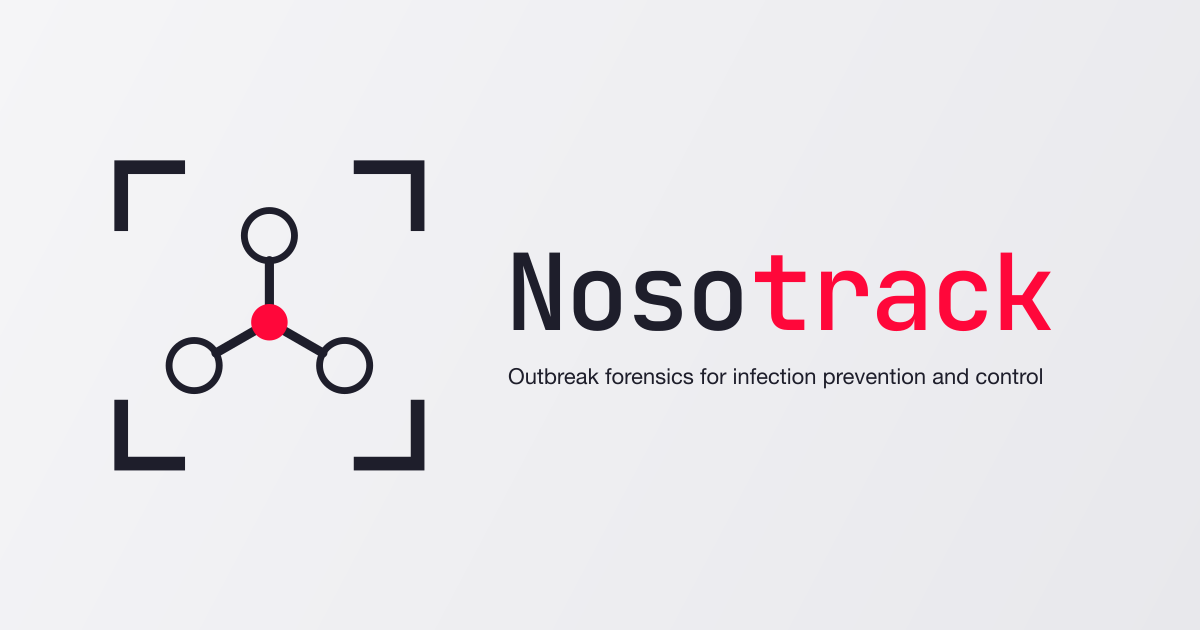
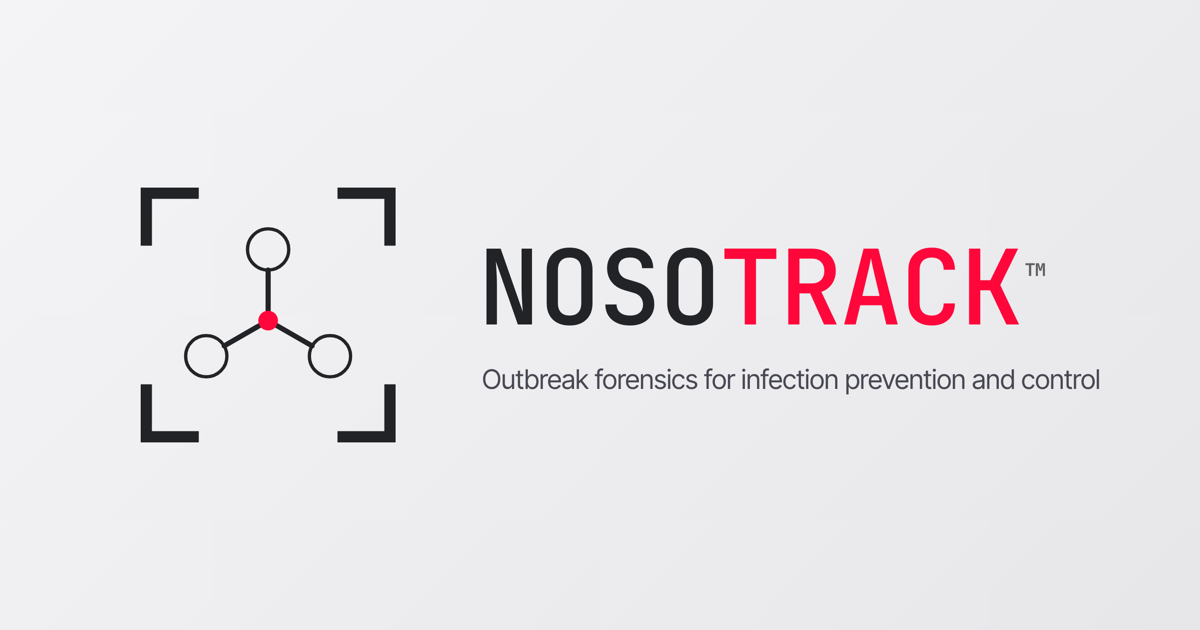
update image brand all caps

diff --git a/scripts/og-card/og-card.html b/scripts/og-card/og-card.html
@@ -1,0 +1,125 @@
+<!doctype html>
+<html lang="en">
+  <head>
+    <meta charset="utf-8" />
+    <style>
+      /* Local system fonts so the render is offline + deterministic. */
+      @font-face {
+        font-family: "JetBrains Mono";
+        src: local("JetBrains Mono"),
+          url("file:///Users/cy/Library/Fonts/JetBrainsMono-VariableFont_wght.ttf")
+            format("truetype");
+        font-weight: 300 800;
+        font-display: block;
+      }
+      @font-face {
+        font-family: "Inter Tight";
+        src: local("Inter Tight"),
+          url("file:///Users/cy/Library/Fonts/InterTight-VariableFont_wght.ttf")
+            format("truetype");
+        font-weight: 300 800;
+        font-display: block;
+      }
+
+      * {
+        margin: 0;
+        padding: 0;
+        box-sizing: border-box;
+      }
+
+      html,
+      body {
+        width: 1200px;
+        height: 630px;
+      }
+
+      body {
+        display: flex;
+        align-items: center;
+        gap: 60px;
+        padding-left: 118px;
+        background: linear-gradient(135deg, #f4f4f6 0%, #e7e7ea 100%);
+        -webkit-font-smoothing: antialiased;
+        text-rendering: geometricPrecision;
+      }
+
+      .icon {
+        flex: 0 0 auto;
+        width: 300px;
+        height: 300px;
+      }
+
+      .lockup {
+        display: flex;
+        flex-direction: column;
+      }
+
+      /* NOSO ink + TRACK alert-red — the canonical lockup. */
+      .wordmark {
+        font-family: "JetBrains Mono", ui-monospace, monospace;
+        font-weight: 500;
+        font-size: 104px;
+        letter-spacing: -0.02em;
+        line-height: 1;
+        color: #212326;
+        white-space: nowrap;
+      }
+      .wordmark .track {
+        color: #ff073a;
+      }
+      .wordmark .tm {
+        font-size: 0.34em;
+        vertical-align: super;
+        font-weight: 500;
+        letter-spacing: 0;
+        opacity: 0.7;
+        margin-left: 0.12em;
+      }
+
+      .tagline {
+        margin-top: 24px;
+        margin-left: 4px;
+        font-family: "Inter Tight", system-ui, sans-serif;
+        font-weight: 400;
+        font-size: 27px;
+        letter-spacing: -0.006em;
+        color: #474852;
+        white-space: nowrap;
+      }
+    </style>
+  </head>
+  <body>
+    <!-- BrandMark icon — geometry verbatim from BrandMark.tsx. -->
+    <svg
+      class="icon"
+      viewBox="0 0 32 32"
+      fill="none"
+      stroke="#212326"
+      stroke-linecap="square"
+      xmlns="http://www.w3.org/2000/svg"
+    >
+      <path d="M3 8 L3 3 L8 3" stroke-width="1.2" />
+      <path d="M24 3 L29 3 L29 8" stroke-width="1.2" />
+      <path d="M29 24 L29 29 L24 29" stroke-width="1.2" />
+      <path d="M8 29 L3 29 L3 24" stroke-width="1.2" />
+      <g stroke-linecap="round">
+        <line x1="16.00" y1="11.20" x2="16.00" y2="15.60" stroke-width="0.55" />
+        <line x1="11.31" y1="19.30" x2="15.13" y2="17.10" stroke-width="0.55" />
+        <line x1="20.69" y1="19.30" x2="16.87" y2="17.10" stroke-width="0.55" />
+        <circle cx="16" cy="9" r="2.2" stroke-width="0.35" />
+        <circle cx="9.4" cy="20.4" r="2.2" stroke-width="0.35" />
+        <circle cx="22.6" cy="20.4" r="2.2" stroke-width="0.35" />
+        <circle cx="16" cy="16.6" r="1.05" fill="#ff073a" stroke="none" />
+      </g>
+    </svg>
+
+    <div class="lockup">
+      <div class="wordmark">
+        NOSO<span class="track">TRACK</span><span class="tm">™</span>
+      </div>
+      <div class="tagline">
+        Outbreak forensics for infection prevention and control
+      </div>
+    </div>
+  </body>
+</html>

diff --git a/src/app/layout.tsx b/src/app/layout.tsx
@@ -12,7 +12,9 @@ import { LenisProvider } from "@/components/LenisProvider";
 import "lenis/dist/lenis.css";
 import "./globals.css";
 
+// BRAND for the logo / OG card; SITE_TITLE for text (<title>, prose, alt).
 const SITE_TITLE = "Nosotrack";
+const BRAND = "NOSOTRACK";
 const SITE_DESCRIPTION = "Outbreak forensics and control.";
 
 export const metadata: Metadata = {
@@ -20,16 +22,16 @@ export const metadata: Metadata = {
   description: SITE_DESCRIPTION,
   metadataBase: new URL("https://nosotrack.com"),
   openGraph: {
-    title: SITE_TITLE,
+    title: BRAND,
     description: SITE_DESCRIPTION,
     url: "https://nosotrack.com",
-    siteName: SITE_TITLE,
+    siteName: BRAND,
     images: [
       {
         url: "/images/og-card.png",
         width: 1200,
         height: 630,
-        alt: SITE_TITLE,
+        alt: SITE_TITLE, // read aloud, so text-cased not BRAND
       },
     ],
     locale: "en_GB",
